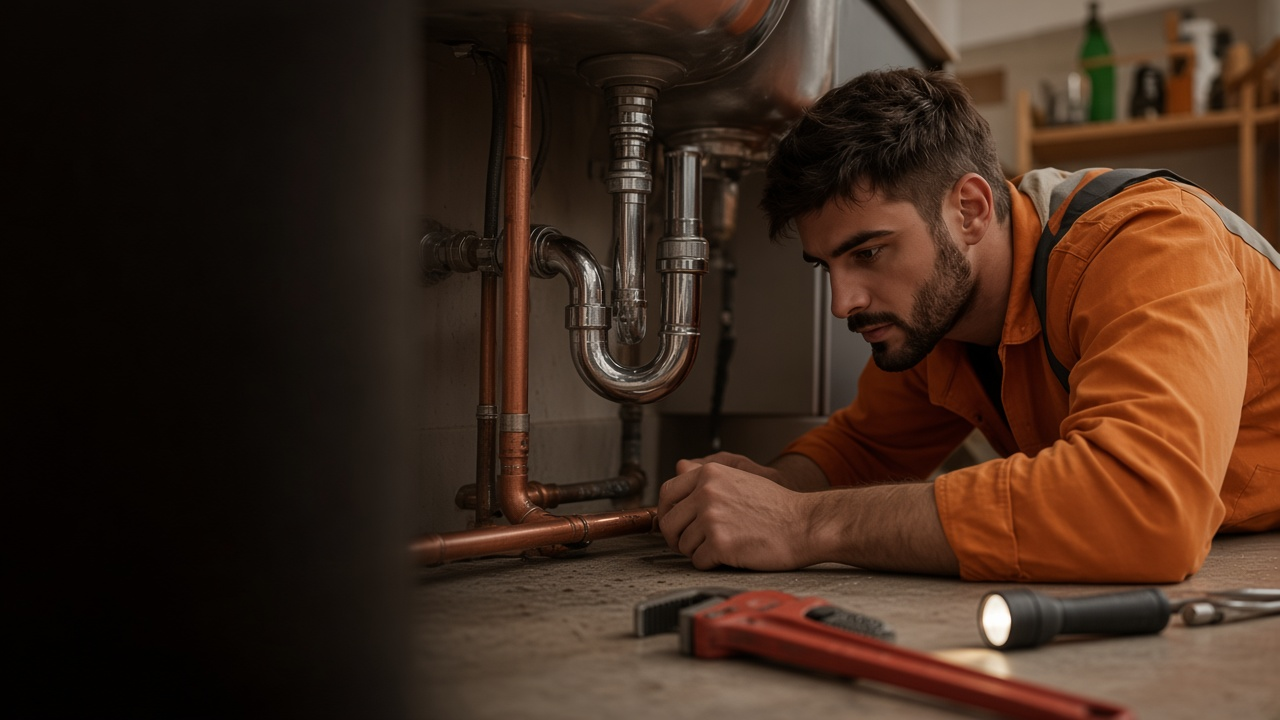
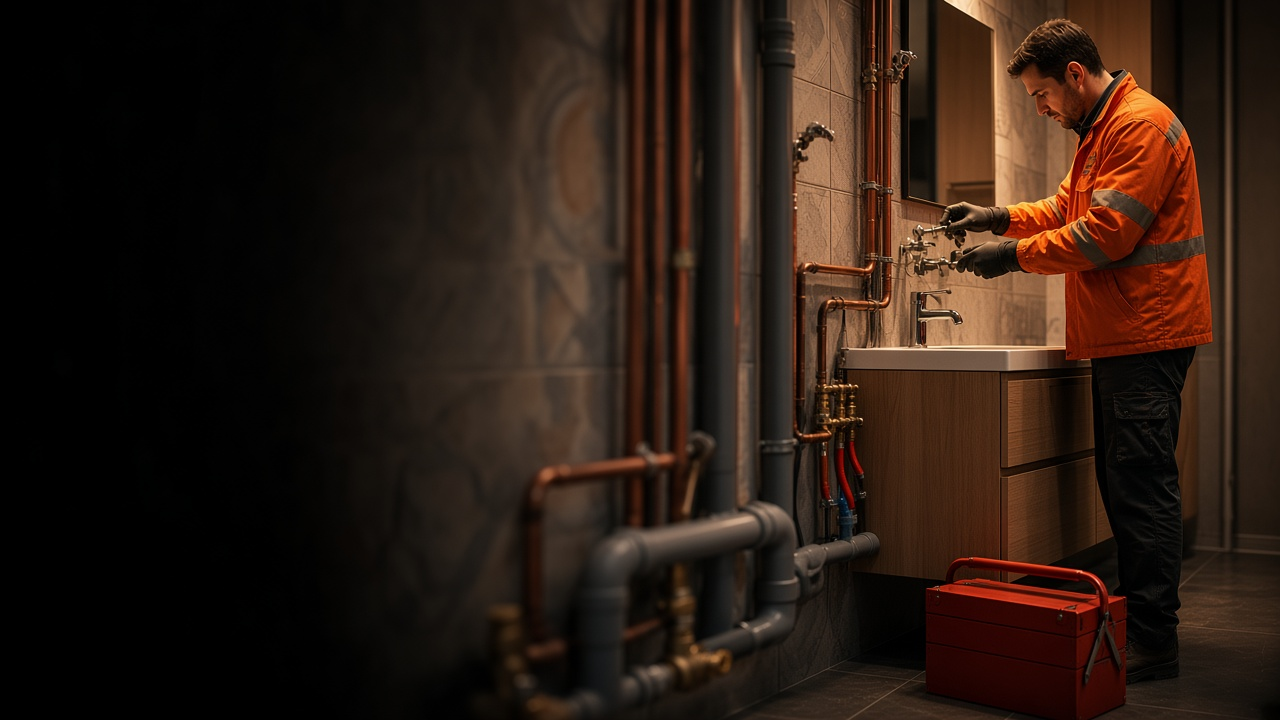
Swap the landing hero for a standing plumber shot in the same orange cinematic style.

diff --git a/app/page.tsx b/app/page.tsx
@@ -14,7 +14,7 @@ export default function HomePage() {
           alt="Plombier PLOMB'ACTIV en intervention — réparation sous évier, Caluire Lyon"
           fill
           priority
-          className="object-cover object-[68%_center]"
+          className="object-cover object-[78%_center]"
         />
         <div className="absolute inset-0 bg-gradient-to-r from-black/80 via-black/45 to-transparent" aria-hidden />
         <div className="relative z-10 max-w-6xl mx-auto px-4 py-24 w-full">
